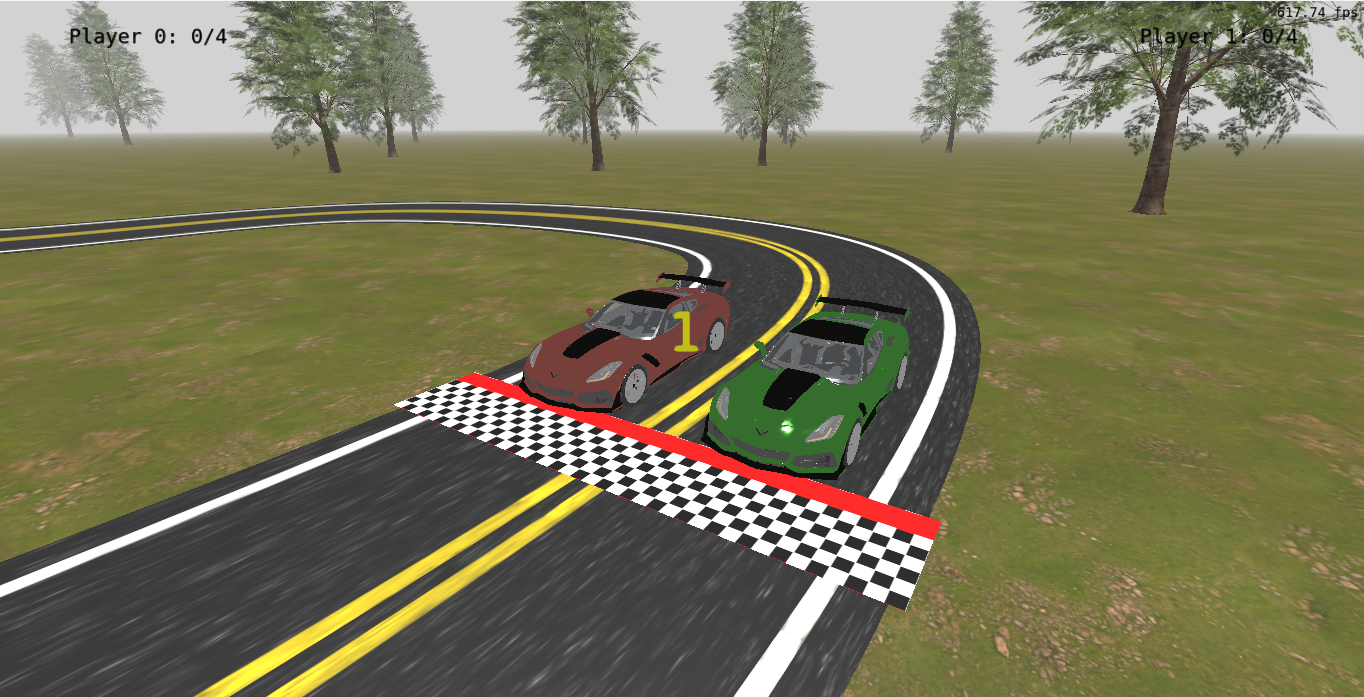
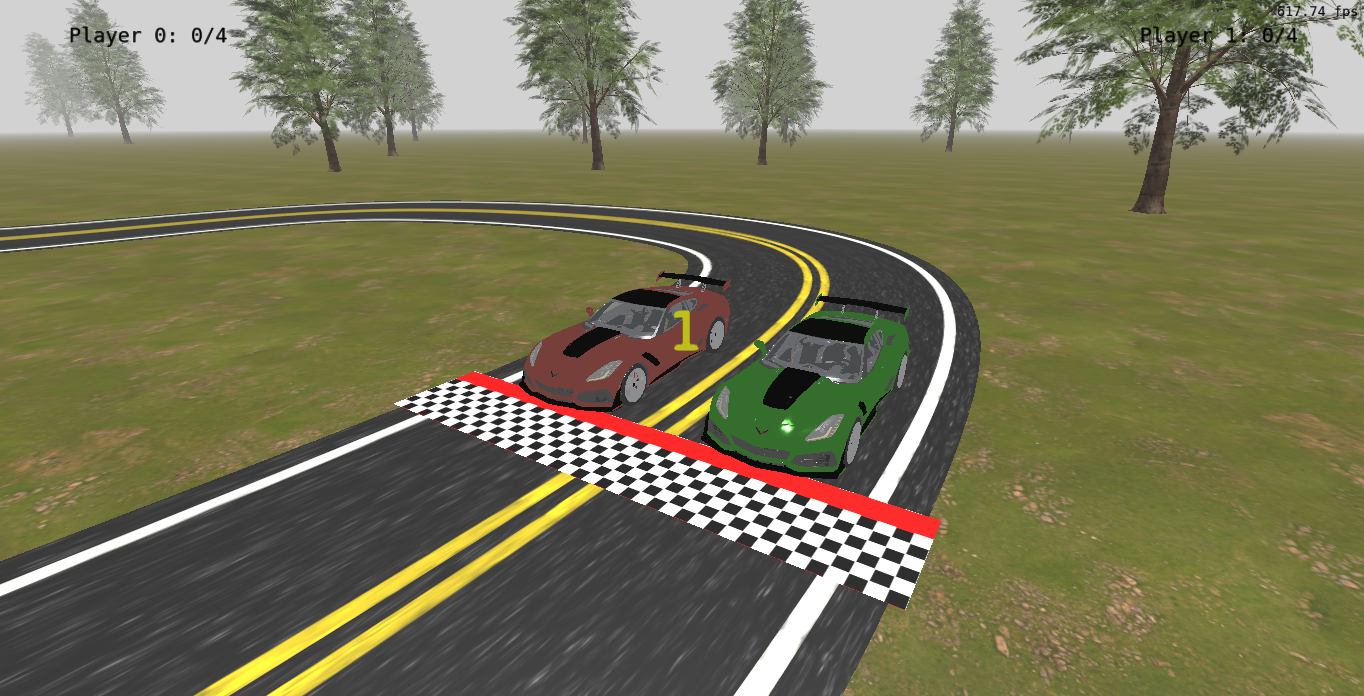
Text updates.

diff --git a/README.md b/README.md
@@ -6,19 +6,19 @@ https://moodle.ufrgs.br/mod/assign/view.php?id=6018620
 
 # Relatório do Trabalho Final de CGVIS
 
-1. A Aplicação Desenvolvida
+## 1. A Aplicação Desenvolvida
 
 A aplicação desenvolvida é um jogo de corrida no estilo autorama para dois jogadores, onde os carros seguem um caminho pré-calculado sobre uma curva do tipo b-spline cúbica por partes. Mecanicamente o jogo se inspira nas funcionalidades de uma das seções do jogo Mario Party, onde os carros competem por completar voltas no menor tempo enquanto buscam se manter abaixo do limite máximo de velocidade da pista, que varia conforme o ângulo de curvatura em cada ponto da pista. Visualmente, o jogo busca um visual com modelos de carros e outros objetos que tendem mais ao realismo, como os do jogo Gran Turismo 5.
 
-2. Contribuição de cada membro
+## 2. Contribuição de cada membro
 
 Toda a aplicação foi desenvolvida por mim, Arthur Rambo Prediger.
 
-3. Sobre Uso de Inteligência Artificial no Desenvolvimento
+## 3. Sobre Uso de Inteligência Artificial no Desenvolvimento
 
 IAs generativas foram utilizadas no desenvolvimento de funcionalidades e aspectos pontuais da aplicação. O ChatGPT na versão gratuita foi utilizada na implementação dos dois comportamentos de câmera presentes no jogo e também para implementar um teste de intersecção entre OBBs (Oriented Bounding Boxes), enquanto que o Grok na versão gratuita foi utilizado para um shader que adapta-se os parâmetros básicos de iluminação utilizados em shader Blinn-Phong para uma versão simplificada de PBR com uso de BRDF.
 
-4. Imagens
+## 4. Imagens
 
 <img width="1364" height="694" alt="image" src="game_images/image_menu.png" />
 
@@ -26,25 +26,26 @@ IAs generativas foram utilizadas no desenvolvimento de funcionalidades e aspecto
 
 <img width="1364" height="694" alt="image" src="game_images/image_race.png" />
 
-5. Manual do Jogo
+## 5. Manual do Jogo
 
-Controles de Menu: 
+### Controles de Menu: 
 - Setas para Cima e para Baixo: alternam entre as opções do menu;
 - Enter seleciona a opção marcada.
 
-Controles de Jogo:
-Jogador 0:
+### Controles de Jogo:
+
+#### Jogador 0:
 - Tecla W: acelera o carro;
 - Tecla S: desacelera o carro;
 - Tecla A: faz com que o carro mude para uma faixa mais externa da pista;
 - Tecla D: faz com que o carro mude para uma faixa mais interna da pista;
 
-Jogador 1: 
+#### Jogador 1: 
 - Tecla Cima: acelera o carro;
 - Tecla Baixo: desacelera o carro;
 - Tecla Esquerda: faz com que o carro mude para uma faixa mais externa da pista;
 - Tecla Direita: faz com que o carro mude para uma faixa mais interna da pista;
 
-6. Explicação de Passos para Compilação
+## 6. Explicação de Passos para Compilação
 
-7. Link de Vídeo do Jogo
+## 7. Link de Vídeo do Jogo
